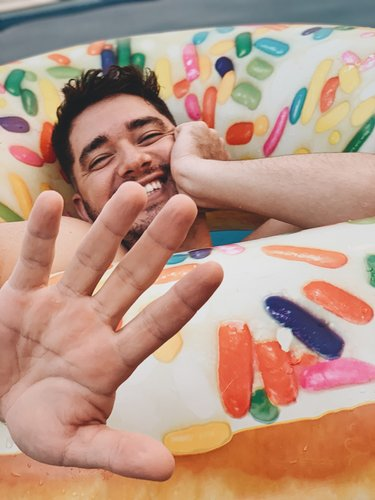
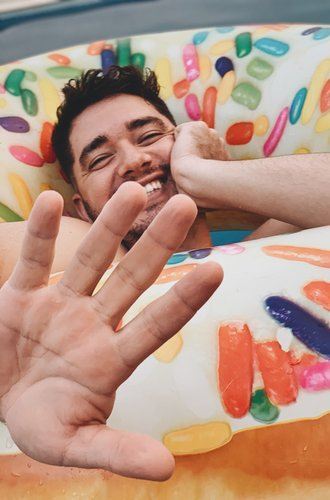
Edit size of designer image

diff --git a/designers.html b/designers.html
@@ -66,7 +66,7 @@
         <!--Photo by Garon Piceli from Pexels-->
         <div class="content">
         <h1>Dave Mannheim</h1>
-        <p>Dave's world travels bring an ecclectic flair to everything he creates. Flowing, energy, electric.</p>
+        <p>Dave's travels bring an ecclectic flair to everything he creates. Flowing, energy, electric.</p>
         </div>
       </div>      
     </div> 
